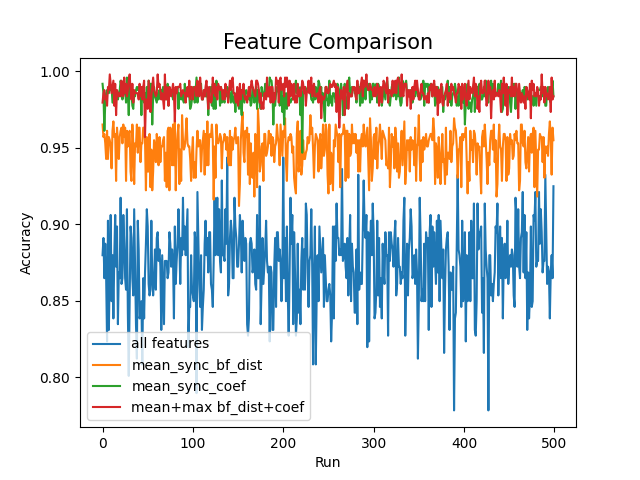
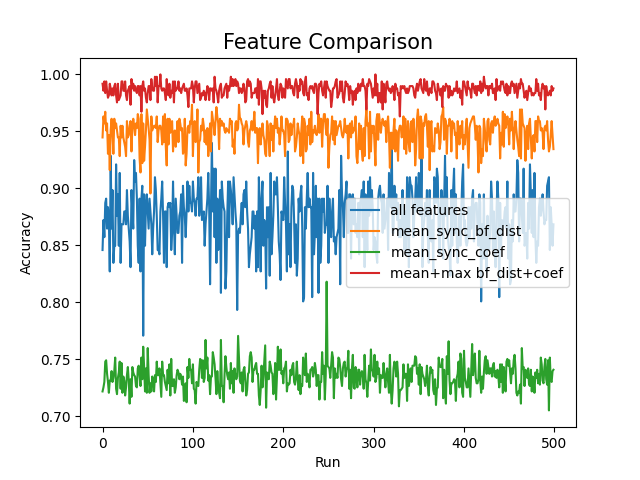
model comparison

diff --git a/Yiannos/feature_comparisons.py b/Yiannos/feature_comparisons.py
@@ -40,37 +40,47 @@ features = ['animal', 'group',
             'sfr', 'bf', 'sync_n', 'max_sync_bf_dist',
             'max_sync_coef', 'mean_sync_bf_dist', 'mean_sync_coef']
 
-X_all, y_all = make_dataset(['animal', 'group'])
-
-ft = features
-ft.remove('mean_sync_bf_dist')
-X_mean_sync_dist, y_mean_sync_dist = make_dataset(ft)
-
-ft = features
-ft.remove('mean_sync_coef')
-X_mean_sync_coef, y_mean_sync_coef = make_dataset(ft)
+ft = [feat for feat in features if feat not in ('max_sync_bf_dist', 'max_sync_coef',
+                                                'mean_sync_bf_dist', 'mean_sync_coef', 'bf', 'sync_n', 'sfr')]
+X_sfr, y_sfr = make_dataset(ft)
 
 ft = [feat for feat in features if feat not in ('max_sync_bf_dist', 'max_sync_coef',
-                                                'mean_sync_bf_dist', 'mean_sync_coef')]
-X_4feat, y_4feat = make_dataset(ft)
+                                                'mean_sync_bf_dist', 'mean_sync_coef', 'bf', 'sync_n', 'p_bursting_time')]
+X_burst_time, y_burst_time = make_dataset(ft)
 
-res = [[], [], [], []]
+ft = [feat for feat in features if feat not in ('max_sync_bf_dist', 'max_sync_coef',
+                                                'mean_sync_bf_dist', 'mean_sync_coef', 'bf', 'sync_n', 'sfr', 'p_bursting_time')]
+X_both, y_both = make_dataset(ft)
 
-for i in range(500):
-    res[0].append(run_model(X_all, y_all))
-    res[1].append(run_model(X_mean_sync_dist, y_mean_sync_dist))
-    res[2].append(run_model(X_mean_sync_coef, y_mean_sync_coef))
-    res[3].append(run_model(X_4feat, y_4feat))
+ft = [feat for feat in features if feat not in ('max_sync_bf_dist', 'max_sync_coef',
+                                                'mean_sync_bf_dist', 'mean_sync_coef', 'bf', 'sync_n')]
+X_base, y_base = make_dataset(ft)
+
+result = [[], [], [], []]
+for j in range(10):
+    res = [[], [], [], []]
+
+    for i in range(100):
+        res[0].append(run_model(X_sfr, y_sfr))
+        res[1].append(run_model(X_burst_time, y_burst_time))
+        res[2].append(run_model(X_both, y_both))
+        res[3].append(run_model(X_base, y_base))
+
+    result[0].append(sum(res[0]) / len(res[0]))
+    result[1].append(sum(res[1]) / len(res[1]))
+    result[2].append(sum(res[2]) / len(res[2]))
+    result[3].append(sum(res[3]) / len(res[3]))
+
 
 plt.xlabel('Run', fontsize=10)
-plt.ylabel('Accuracy', fontsize=10)
+plt.ylabel('Average Accuracy', fontsize=10)
 plt.title('Feature Comparison', fontsize=15)
-x = [i for i in range(500)]
-plt.plot(x, res[0], label='all features')
-plt.plot(x, res[1], label='mean_sync_bf_dist')
-plt.plot(x, res[2], label='mean_sync_coef')
-plt.plot(x, res[3], label='mean+max bf_dist+coef')
+x = [i for i in range(10)]
+plt.plot(x, result[0], label='mean+max+sync+bf + sfr')
+plt.plot(x, result[1], label='mean+max+sync+bf + p_burst_time')
+plt.plot(x, result[2], label='mean+max+sync+bf + both')
+plt.plot(x, result[3], label='baseline')
 plt.legend(loc='best')
 
 plt.show()
-# plt.savefig('clf_feature_comparisons')
+# plt.savefig('clf_ft_comp')

diff --git a/Yiannos/ExtraTrees.py b/Yiannos/ExtraTrees.py
@@ -1,0 +1,69 @@
+import pickle
+import pandas as pd
+from matplotlib import pyplot as plt
+from sklearn.preprocessing import StandardScaler
+import numpy as np
+import seaborn as sns
+from sklearn.ensemble import ExtraTreesClassifier
+from sklearn.model_selection import train_test_split, GridSearchCV
+from sklearn import tree
+
+df = pd.read_csv('train_set1.csv')
+# df["group"].replace({"NE": "ENT"}, inplace=True)  # mix data-points with no tinnitus to one class
+df = df.loc[df["group"] != "NE"]  # remove NE data-points
+df_new = df
+y = np.unique(df_new.loc[:, 'group'].values, return_inverse=True)[1]
+df_new = df_new.drop(columns=['animal', 'group', 'avg_ibi', 'avg_spikes_burst',
+                              'max_spikes_burst', 'bfr', 'p_bursting_spikes',
+                              'p_bursting_time', 'sfr', 'bf', 'sync_n',
+                              'max_sync_bf_dist', 'max_sync_coef', 'mean_sync_coef'])  # dropped
+
+# , 'mean_sync_bf_dist' not dropped
+
+remove = df_new.isna().any(axis=1)
+df_new = df_new.dropna()
+
+X = StandardScaler().fit_transform(df_new)
+y = pd.DataFrame(y[~remove])
+
+X_train, X_test, y_train, y_test = train_test_split(X, y, test_size=0.5)
+
+# Heatmap
+
+'''plt.figure(figsize=(16, 6))
+mask = np.triu(np.ones_like(df_new.corr(), dtype=bool))
+heatmap = sns.heatmap(df_new.corr(), mask=mask, vmin=-1, vmax=1, annot=True)
+heatmap.set_title('Triangle Correlation Heatmap', fontdict={'fontsize': 18}, pad=16)
+
+#plt.show()
+plt.savefig('triangle_heatmap.png', bbox_inches='tight')'''
+
+# CV
+'''
+parameters = {'n_estimators': (100, 300, 500), 'max_depth': (5, 10, 40, None),
+              'min_samples_split': (2, 3),
+              'min_samples_leaf': (1, 2),
+              'max_features': (0.5, 0.8, None)}
+
+clf = GridSearchCV(ExtraTreesClassifier(criterion='gini', bootstrap=True, class_weight='balanced_subsample'), parameters, n_jobs=4)
+clf.fit(X=X_train, y=np.array(y_train).ravel())
+tree_model = clf.best_estimator_
+print(clf.best_score_, clf.best_params_)
+'''
+
+tree_model = ExtraTreesClassifier(criterion='gini', bootstrap=True, class_weight='balanced_subsample', n_estimators=100)
+tree_model.fit(X_train, np.array(y_train).ravel())
+print(tree_model.score(X_test, y_test))
+
+'''
+filename = 'finalized_model.sav'
+pickle.dump(tree_model, open(filename, 'wb'))
+
+fig = plt.figure(figsize=(200, 200))
+_ = tree.plot_tree(tree_model.estimators_[0], feature_names=df_new.columns, class_names=['ENT', 'ET'], filled=True)
+plt.savefig('tree_1ft_non_standard')
+
+feat_importance = pd.Series(tree_model.feature_importances_, index=df_new.columns)
+feat_importance.plot(kind='barh')
+plt.savefig('clf_feat_importance', bbox_inches='tight')
+'''

diff --git a/Yiannos/other_models.py b/Yiannos/other_models.py
@@ -1,0 +1,67 @@
+import pandas as pd
+from sklearn.svm import SVC
+from matplotlib import pyplot as plt
+from sklearn.preprocessing import StandardScaler
+import numpy as np
+from sklearn.ensemble import ExtraTreesClassifier
+from sklearn.model_selection import train_test_split, GridSearchCV
+from sklearn.metrics import ConfusionMatrixDisplay
+from sklearn.neighbors import KNeighborsClassifier
+
+df = pd.read_csv('train_set1.csv')
+df = df.loc[df["group"] != "NE"]  # remove NE data-points
+df_new = df
+y = np.unique(df_new.loc[:, 'group'].values, return_inverse=True)[1]
+df_new = df_new.drop(columns=['animal', 'group', 'avg_ibi', 'avg_spikes_burst',
+                              'max_spikes_burst', 'bfr', 'p_bursting_spikes',
+                              'p_bursting_time', 'sfr'])  # dropped
+
+# , 'bf', 'sync_n', 'max_sync_bf_dist', 'max_sync_coef', 'mean_sync_coef', 'mean_sync_bf_dist' not dropped
+
+remove = df_new.isna().any(axis=1)
+df_new = df_new.dropna()
+
+X = StandardScaler().fit_transform(df_new)
+y = pd.DataFrame(y[~remove])
+
+X_train, X_test, y_train, y_test = train_test_split(X, y, test_size=0.5)
+
+tree = ExtraTreesClassifier(criterion='gini', bootstrap=True, class_weight='balanced_subsample', n_estimators=100)
+svm_rbf = SVC(class_weight='balanced', C=1000)
+knn = KNeighborsClassifier(n_neighbors=1, weights='distance')
+
+result = [[], [], [], []]
+for i in range(200):
+    X_train, X_test, y_train, y_test = train_test_split(X, y, test_size=0.5)
+
+    tree.fit(X_train, np.array(y_train).ravel())
+    svm_rbf.fit(X_train, np.array(y_train).ravel())
+    knn.fit(X_train, np.array(y_train).ravel())
+
+    result[0].append(tree.score(X_test, y_test))
+    result[1].append(svm_rbf.score(X_test, y_test))
+    result[2].append(knn.score(X_test, y_test))
+
+plt.xlabel('Run', fontsize=10)
+plt.ylabel('Accuracy', fontsize=10)
+plt.title('Model Comparison', fontsize=15)
+x = [i for i in range(200)]
+plt.plot(x, result[0], label='Tree')
+plt.plot(x, result[1], label='SVM_rbf')
+plt.plot(x, result[2], label='KNN')
+plt.legend(loc='best')
+
+plt.show()
+
+'''
+disp = ConfusionMatrixDisplay.from_estimator(
+        svm_model_rbf,
+        X_test,
+        y_test,
+        display_labels=['ENT', 'ET'],
+        cmap=plt.cm.Blues,
+    )
+
+print(disp.confusion_matrix)
+plt.show()
+'''
